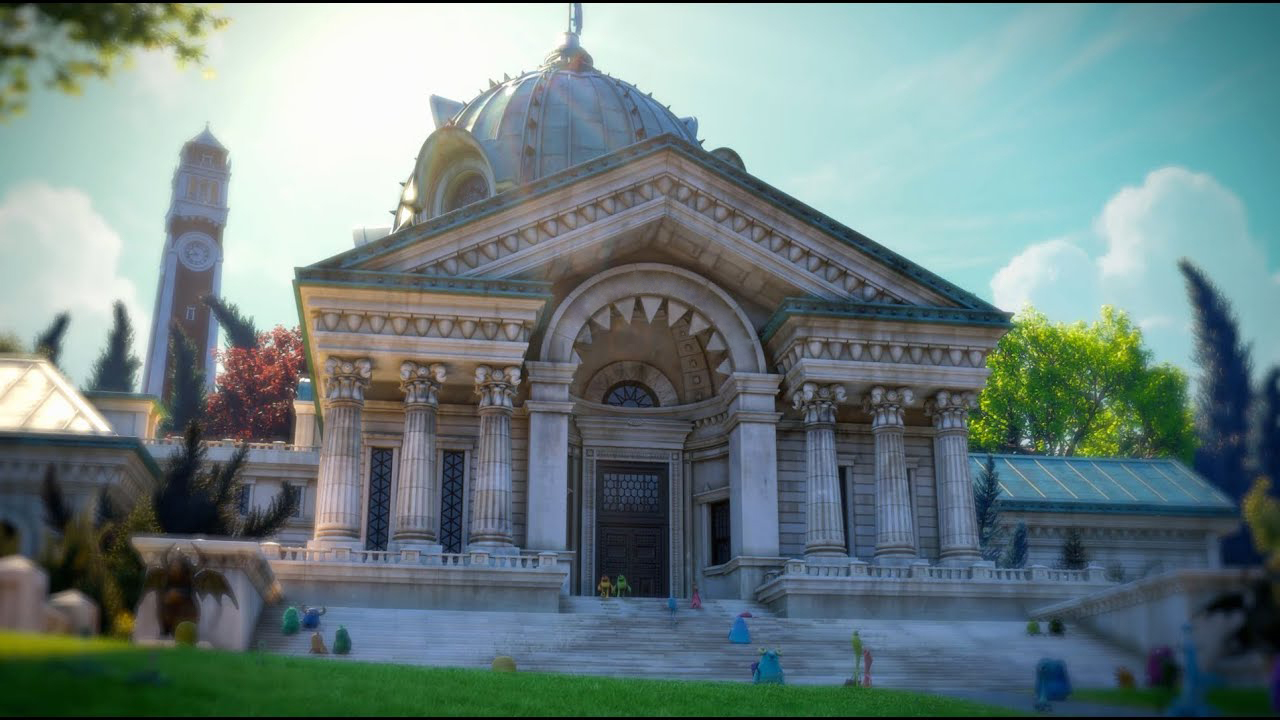
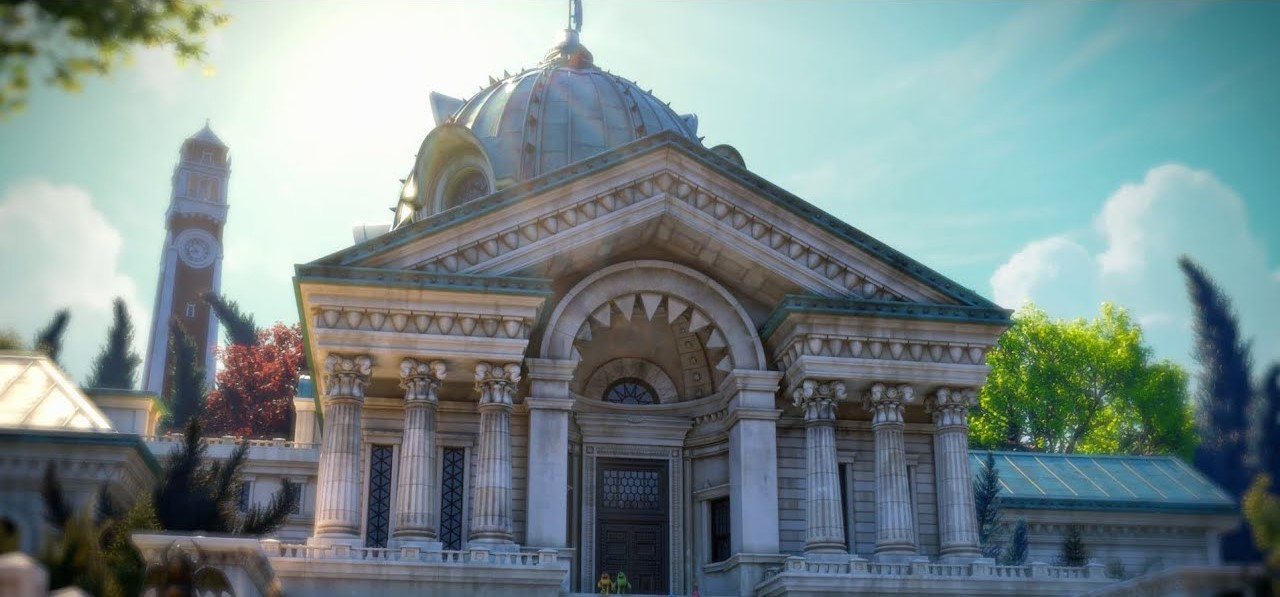
Add cover photo to home page

diff --git a/all.css b/all.css
@@ -18,11 +18,13 @@ body {
 .header {
     position: fixed;
     width: 100%;
-    margin-top: 10px;
-    padding: 0 0 5px 0;
+    right: 0;
+    top: 0;
+    padding: 10px 0 5px 0;
     font-weight: 500;
     color: #0087e0;
     border-bottom: #0087e0 solid 2px;
+    background-color: #FFFFFF;
 }
 
 .bird-logo {

diff --git a/home.html b/home.html
@@ -26,5 +26,6 @@
         </ul>
     </div>
 </div>
+<img src="cover photo.jpg" alt="" class="cover-photo">
 </body>
 </html>

diff --git a/home.css b/home.css
@@ -1,0 +1,4 @@
+.cover-photo {
+    height: 400px;
+    width: 100%;
+}
